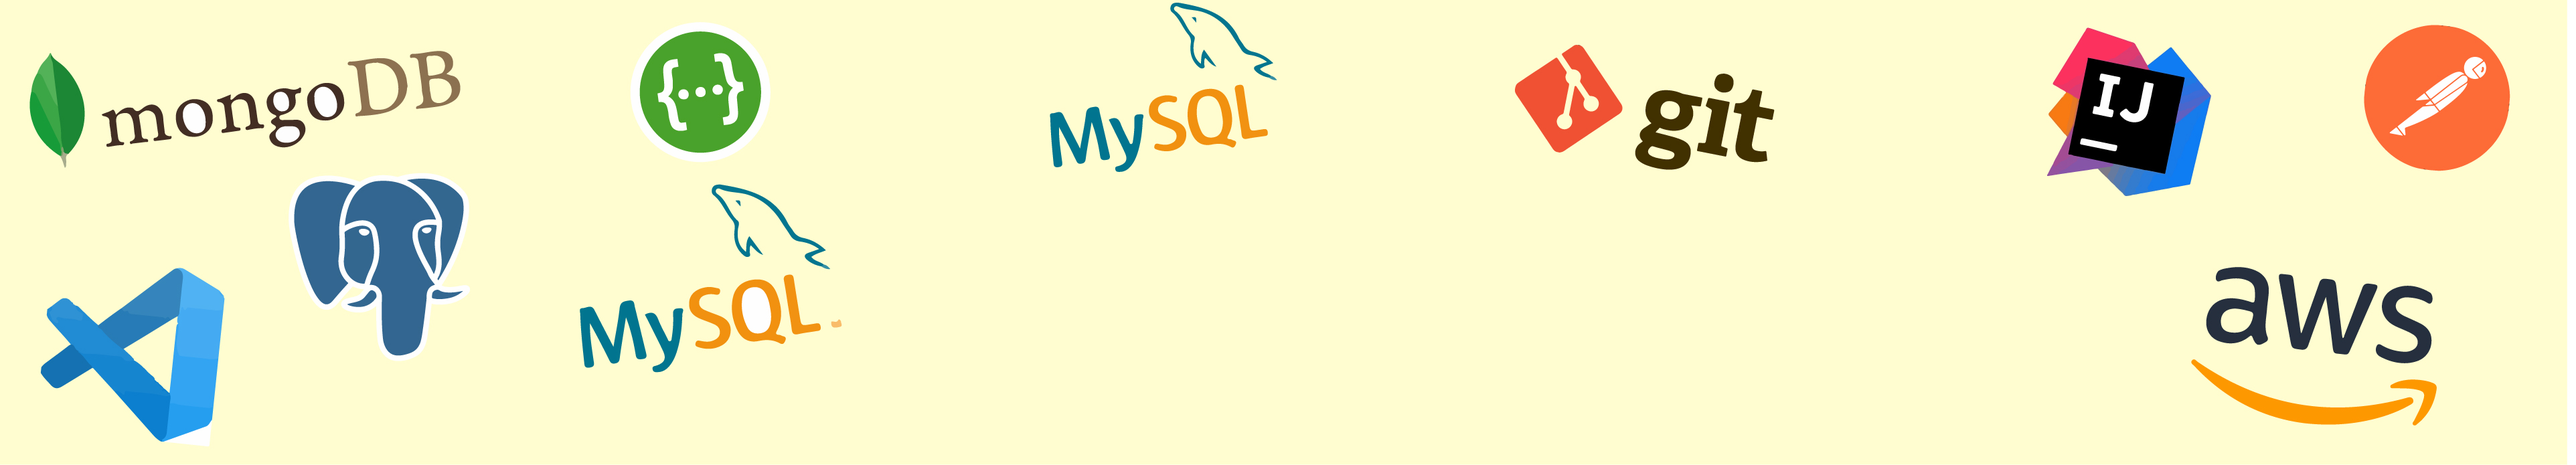
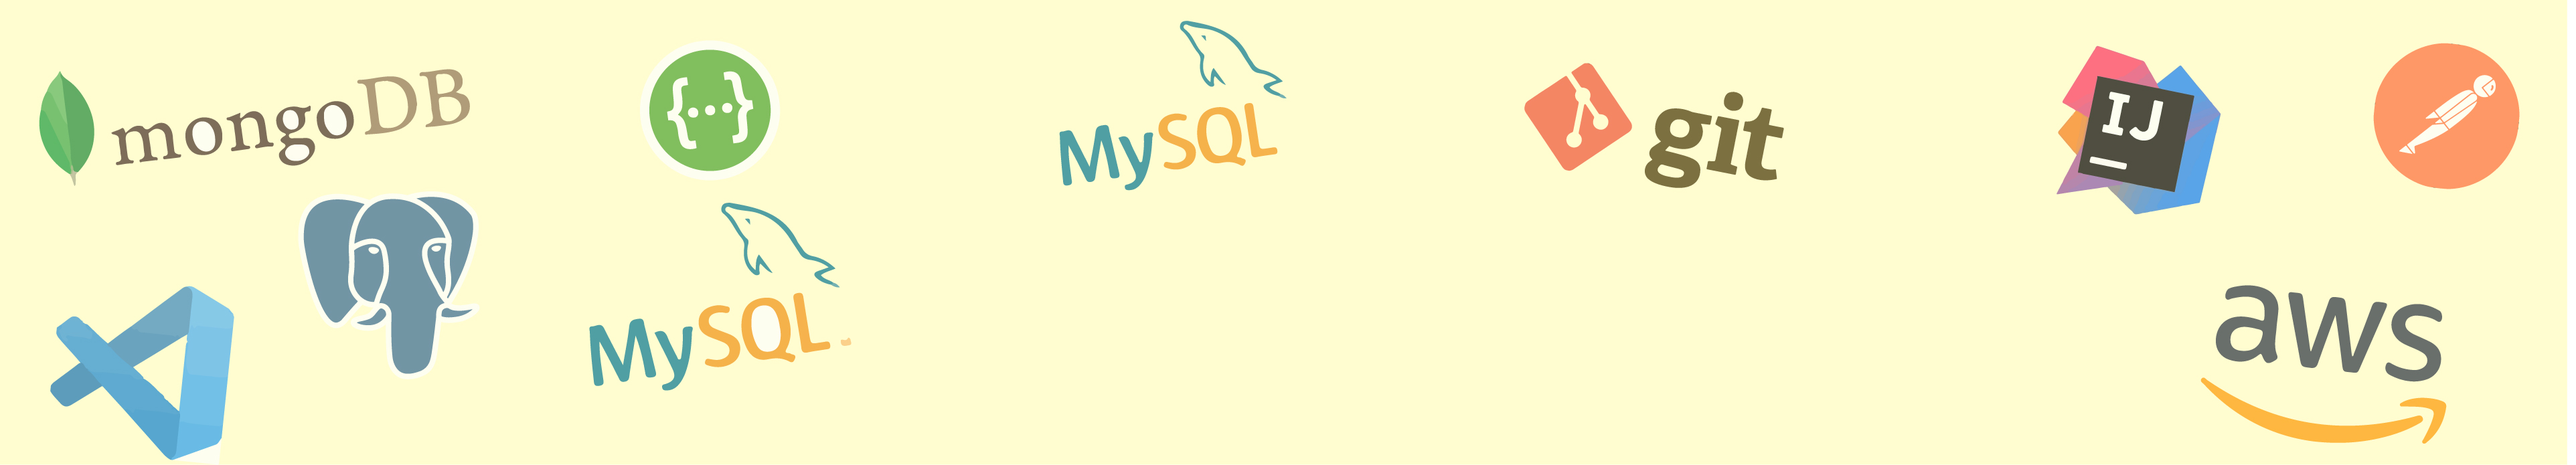
Toolds bar image on Skills Page

diff --git a/CSS/cardSkills.css b/CSS/cardSkills.css
@@ -91,3 +91,18 @@
     }
   }
   
+  .cardsHolder{
+    animation: saindo 1s ease-in-out;
+}
+
+@keyframes saindo {
+    0% {
+        top: 10%;
+        opacity: 0;
+    }
+
+    100% {
+        top: 5.5%;
+        opacity: 1;
+    }
+}

diff --git a/CSS/languages.css b/CSS/languages.css
@@ -3,7 +3,7 @@
     flex-direction: column;
     text-align: center;
     align-items: center;
-    margin-top: 13%;
+    margin-top: 9.3%;
     width: 100%;
     background-color: var(--litle-midle);
 }

diff --git a/CSS/skillPage.css b/CSS/skillPage.css
@@ -3,7 +3,7 @@
     flex-direction: column;
     align-items: center;
     background-color: #0d4861;;
-    height: 88.8vh;
+    height: 88.1dvh;
     
 }
 .widthImage{
